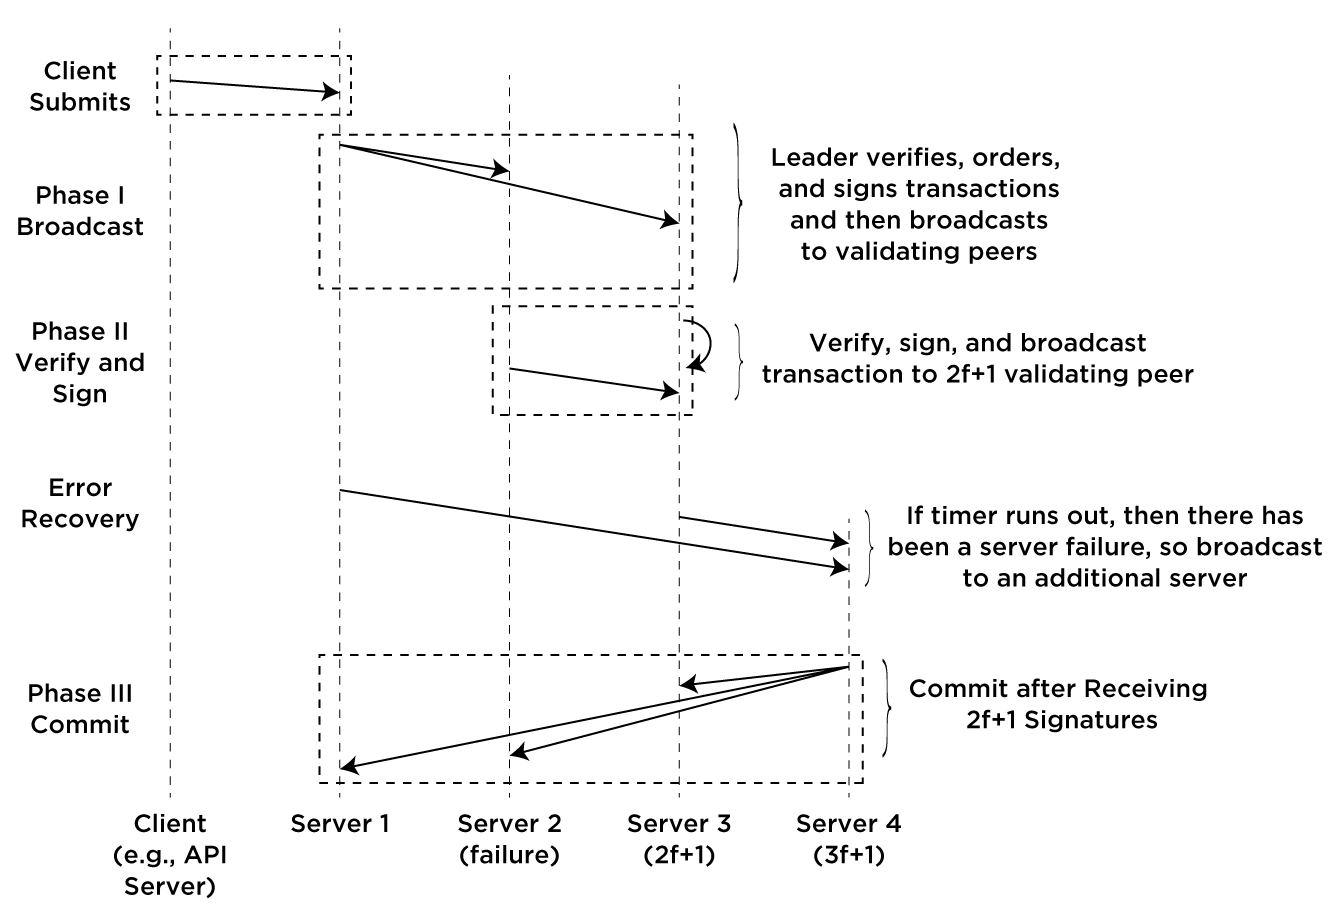
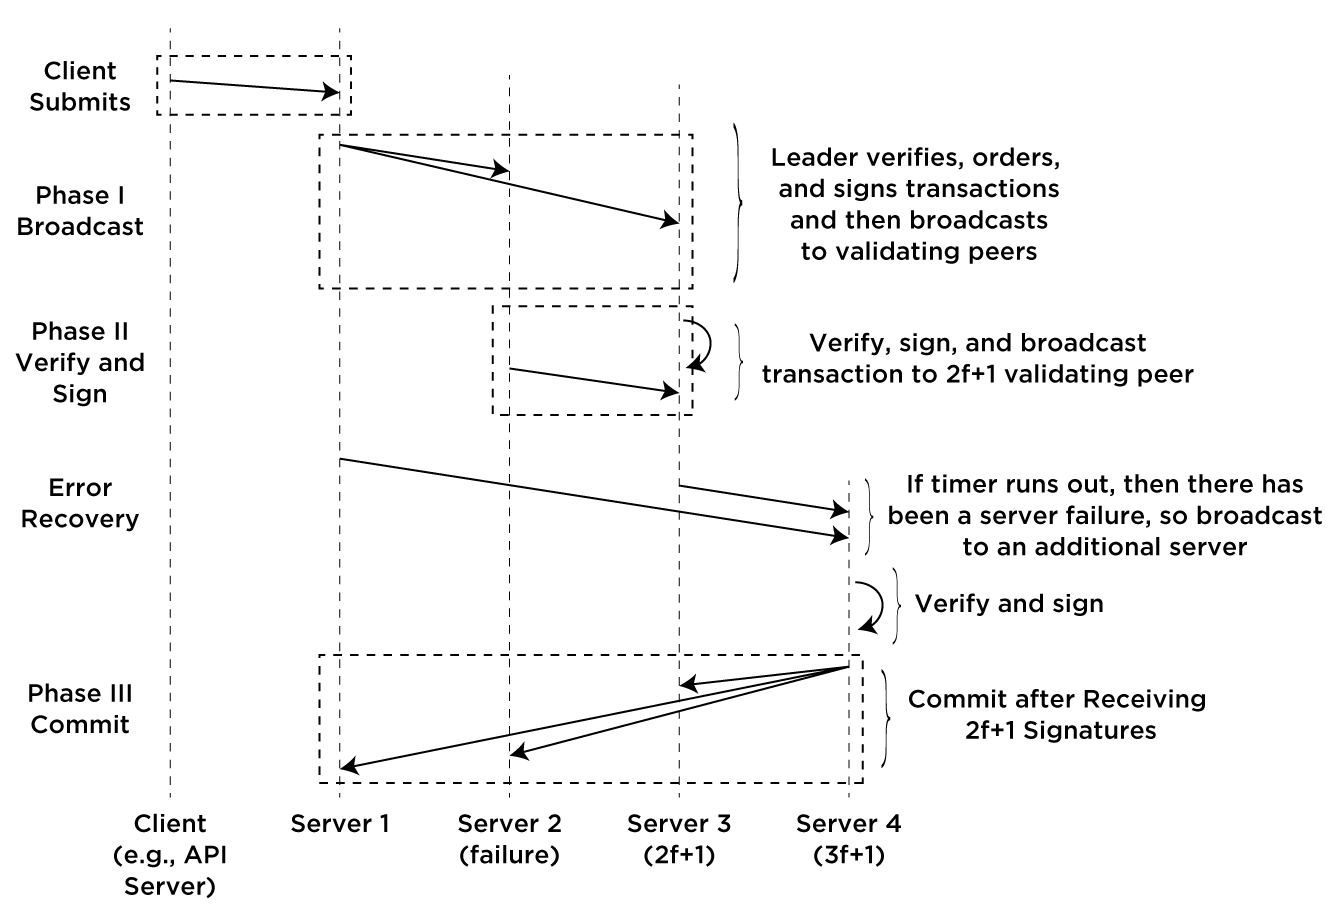
update figures

diff --git a/docs/iroha_whitepaper.md b/docs/iroha_whitepaper.md
@@ -109,6 +109,8 @@ The order of processing nodes is determined based on the server reputation syste
 
 ![alt tag](sumeragi_tx_flow_mid_failure.png)
 
+![alt tag](sumeragi_tx_flow_tail_failure.png)
+
 Consensus in Sumeragi is performed on individual transactions and on the global state resulting from the application of the transaction. When a validating peer receives a transaction over the network, it performs the following steps in order:
 
 * validate the signature (or signatures, in the case of multisignature transactions) of the transaction
